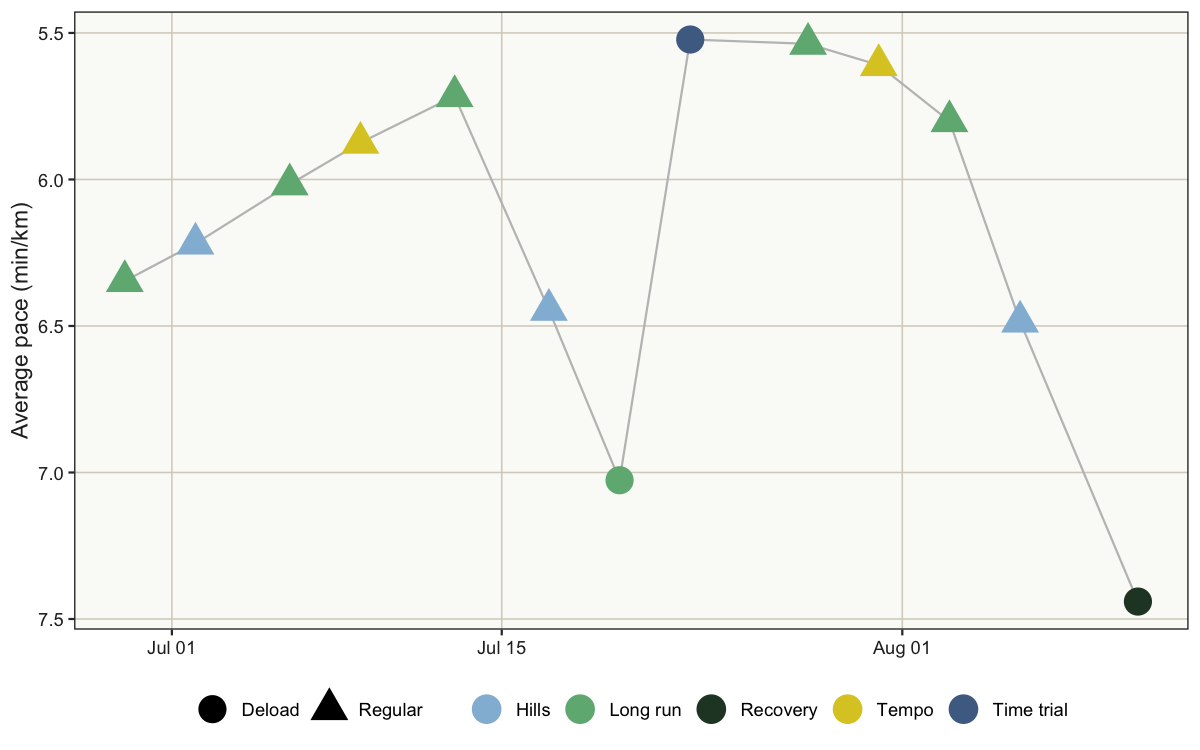
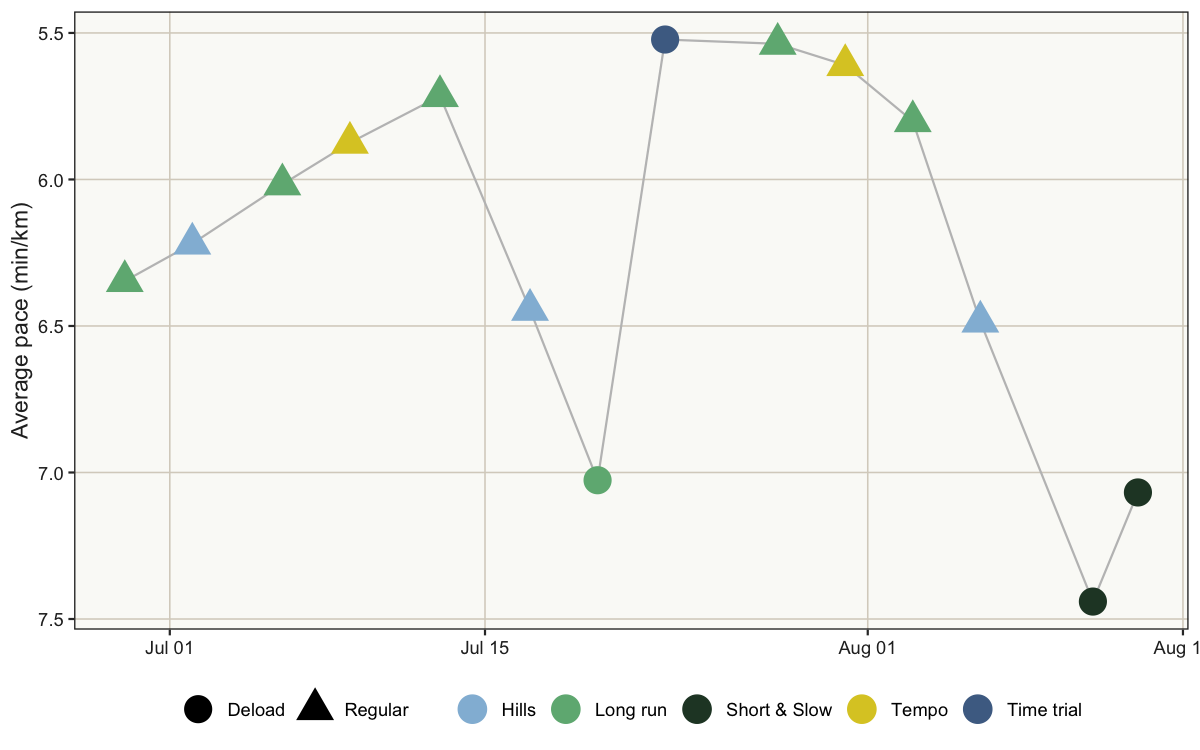
Revised chapter 6

diff --git a/_posts/0001-01-06-running-finding-right-variable.md b/_posts/0001-01-06-running-finding-right-variable.md
@@ -45,44 +45,53 @@ github:
 </div>
 
 After weeks of teasing, this is finally it: we are about to start
-analysing the data.
+analysing some of the data.
 
 And no, I did not add five preliminary chapters just to keep you
 waiting. Real data projects often take time before the first graph
 appears. We needed to find the data, understand how they were stored,
-bring them into R, and build a reproducible workspace.
+bring them into R, and build a reproducible workspace. We now have solid
+foundations.
 
-We now have solid foundations. And hundreds of variables waiting for us.
-
-That sounds like plenty. But having lots of variables does not mean
-having the right one. The database contains what Garmin was designed to
-record, not necessarily what I need to answer my question.
+Let’s go!
 
 # A question I wasn’t planning to ask
+
+As I wrote in the preamble to this notebook, data analysis is rarely a
+straight line. Every anaysis takes some detours. This chapter documents
+one of these.
 
 I originally expected this first exploration to be about progress. Am I
 running faster? Is my fitness improving?
 
-But another question has become more pressing. Over the past week, I
-have felt increasingly tired. I am still reaching the targets set by the
-programme, but my energy on the days that follow sessions is lower than
-I would expect. And yet, I don’t think my pace targets have increased
-significantly.
+By then, another question had become more pressing. Over the previous
+week, I had felt increasingly tired. I was still reaching the targets
+set by the programme, but my energy on the days following each session
+was lower than expected. And yet, I did not think my pace targets had
+increased significantly.
 
-So my first question for the data is not whether I am becoming faster.
-It is: **Have I been doing too much, too quickly?**
+So my first question for the data became: **After my long break from
+running, had I been doing too much, too quickly?**
 
-> Sleep, nutrition, and work have been fairly constant. I therefore
-> start by looking at the training, while keeping in mind that it may
-> not be the only explanation.
+> Sleep, nutrition, and work had been fairly constant. I therefore
+> started by looking at the training, while keeping in mind that it
+> might not be the only explanation.
 
-The question is simple enough. Translating it into data is harder. Which
+The question was simple. But translating it into data was harder. Which
 variable represents *doing too much*? Pace? Effort? Distance? Something
 else?
 
+Dozens of variables were waiting in the `activities` table alone, which
+sounded like plenty. But having lots of variables does not mean having
+the right one. The database contains what Garmin was designed to record,
+not necessarily what I needed to answer my question.
+
 This is where exploratory data analysis (“EDA”) begins. Rather than
 plotting every available column and hoping for a pattern, we need to
-find a variable that actually addresses the question.
+find -or engineer- a variable that actually addresses the question.
+
+Answering it required more than a surface understanding of both the data
+and the problem.
 
 # A reproducible start
 
@@ -149,12 +158,13 @@ runs <-
         collect()
 ```
 
-At the time of writing, I have completed 13 runs. Each data point has
-been hard-earned, but these observations are still very few. I won’t be
-proving anything today. Fortunately, I only need enough information to
-make a small, reversible decision about next week’s training.
+At the time of writing, I have completed 14 runs. Each data point has
+been hard-earned, but these observations are still very few. It is too
+early, for instance, to make credible performance predictions. This
+investigation only asked whether *something obvious had changed in
+recent weeks*.
 
-# Hundreds of variables, but not the right ones
+# Dozens of variables, but not the right ones
 
 Garmin knows when I ran, how far I went, how fast my heart was beating,
 and much more. But it does not know how those runs fit into my training
@@ -165,8 +175,8 @@ usually one longer run and one more intense session, such as tempo
 intervals or hill repeats. Some weeks are deliberately lighter to favour
 recovery (“deload” weeks).
 
-I therefore need to create a few variables before the data can begin to
-answer my question:
+Before analysing them, I needed to create a few variables that related
+the runs to my question:
 
 - `date` extracts the calendar date from Garmin’s timestamp;
 - `training_week` places each run within the programme;
@@ -189,7 +199,7 @@ runs <-
                 str_detect(name, "Hills")      ~ "Hills",
                 str_detect(name, "Tempo")      ~ "Tempo",
                 str_detect(name, "Long Run")   ~ "Long run",
-                TRUE                           ~ "Recovery"
+                TRUE                           ~ "Short & Slow"
             ),
             deload = if_else(
                 training_week %in% c(4, 7),
@@ -210,7 +220,7 @@ runs |>
     )
 ```
 
-    ## # A tibble: 13 × 7
+    ## # A tibble: 14 × 7
     ##    run_id date       training_week session_type deload  distance avg_pace
     ##     <int> <date>             <dbl> <chr>        <chr>      <dbl>    <dbl>
     ##  1      1 2026-06-29             1 Long run     Regular     7.52     6.35
@@ -225,7 +235,8 @@ runs |>
     ## 10     10 2026-07-31             5 Tempo        Regular     6.63     5.61
     ## 11     11 2026-08-03             6 Long run     Regular    11.0      5.80
     ## 12     12 2026-08-06             6 Hills        Regular     9.35     6.49
-    ## 13     13 2026-08-11             7 Recovery     Deload      6.49     7.44
+    ## 13     13 2026-08-11             7 Short & Slow Deload      6.49     7.44
+    ## 14     14 2026-08-13             7 Short & Slow Deload      4.01     7.07
 
 This is `feature engineering` in its simplest form: translating my
 knowledge of the project into variables the computer can use. Some
@@ -233,15 +244,15 @@ variables add context that Garmin does not have, while others transform
 existing measurements into more useful units, such as pace instead of
 speed.
 
-Feature engineering is not merely cleaning before the analysis begins.
-It determines which questions the data can answer.
+Feature engineering can be part of preparing data for analysis. More
+importantly here, it determines which questions the data can answer.
 
 > Do not let the available columns dictate your questions. If the
-> variable you need is missing, build it.
+> variable you need is missing, take time to build it.
 
 # First candidate: average pace
 
-My first candidate is average pace. If the recent sessions were too
+My first candidate was average pace. If the recent sessions had been too
 demanding, perhaps I had simply been running too fast for my current
 level.
 
@@ -263,36 +274,40 @@ runs |>
 
 <figure>
 <img src="/images/notebooks/running/average-pace-over-time-1.png"
-alt="Average pace across the first weeks of the programme. Lower values represent faster runs." />
+alt="Average pace across the first weeks of the programme. Lower values (top) represent faster runs." />
 <figcaption aria-hidden="true">Average pace across the first weeks of
-the programme. Lower values represent faster runs.</figcaption>
+the programme. Lower values (top) represent faster runs.</figcaption>
 </figure>
 
 Pace improved quickly during the opening weeks before settling somewhere
 around 5’30 to 5’50 per kilometre.
 
-Four apparently slow runs stand out. Two were hill sessions, which
+Five apparently slow runs stand out. Two were hill sessions, which
 included hard uphill repetitions followed by walking recovery. Their
 average pace makes them look easy when they were anything but. The other
-two are runs from recovery weeks, which are meant to be slow.
+three came from recovery weeks and were meant to be slow. In particular,
+the final two were part of my response to the accumulated fatigue: an
+easy week with two short, slow runs.
 
-> An unusual observation is not necessarily an error. Understand where
+> An unusual observation is not necessarily an error. An outlier may be
+> a data problem, or it may be a genuine observation. Understand where
 > it comes from before deciding what to do with it.
 
-This is useful, although it is not the answer I was looking for. There
-is no recent increase in average pace. If anything, I have slowed down
-slightly. That makes average pace a poor explanation for the fatigue.
+This was useful, although it was not the answer I was looking for. Once
+I set the deload runs aside, there was no recent increase in average
+pace. If anything, I had slowed down slightly. Average pace was
+therefore a poor explanation for my fatigue.
 
 But average pace is also an imperfect representation of a run. The same
 average can describe a steady effort, intervals, or short sprints
-separated by walking. Before discarding pace entirely, I want to see
-what the average is hiding.
+separated by walking. Before discarding pace entirely, I wanted to see
+what the average was hiding.
 
 ## Is the average the right summary?
 
-So far, I have used the `activities` table, which contains one summary
-for each recorded activity. Another table, `activity_records`, contains
-the measurements used to create those summaries.
+Up to that point, I had used the `activities` table, which contains one
+summary for each recorded activity. Another table, `activity_records`,
+contains the measurements used to create those summaries.
 
 This table cannot be filtered by `sport == "running"` as before because
 that column is not included there, but `activity_id` connects it to my
@@ -312,9 +327,9 @@ runs_detailed <-
         arrange(date, record)
 ```
 
-Each row now represents one measurement recorded during a run. I removed
-records where speed equals zero because pace is undefined when there is
-no movement.
+Each row now represents one measurement recorded during a run of my
+programme. I removed records where speed equals zero because pace is
+undefined when there is no movement.
 
 ``` r
 runs_detailed |>
@@ -364,18 +379,19 @@ narrow distribution, while hill sessions contain several distinct paces:
 short uphill efforts, recovery running, and some walking.
 
 The graph explains why average pace can misrepresent some sessions. But
-it does not explain why I am tired. Lesson learned: I do not need *more
-data*; I need a *better variable* for the question.
+it did not explain why I had been feeling more tired. This detour gave
+me a useful lesson: I did not need *more data*; I needed a *better
+variable* for the question.
 
 # Second candidate: Garmin’s effort metrics
 
-If pace cannot represent how demanding these sessions were, perhaps
-Garmin’s ready-made effort metrics can.
+If pace could not represent how demanding these sessions were, perhaps
+Garmin’s ready-made effort metrics could.
 
 These are engineered variables too. Garmin combines raw measurements
 into convenient scores according to its own definition of effort. That
-can be useful, but a variable does not become relevant to my question
-simply because it is already available.
+can be useful, but a variable does not necessarily become relevant to my
+question simply because it is already available.
 
 `training_load` estimates the physiological load created by each
 activity. Here, the slow hill sessions no longer look easy. They sit
@@ -440,19 +456,22 @@ several demanding sessions, but no sudden break from one week to the
 next.</figcaption>
 </figure>
 
-These variables are closer to the idea of effort, but there is no clear
-change. Week 3 was demanding too, and I handled it without unusual
-fatigue.
+These variables were closer to the idea of effort, but neither showed a
+clear change. Week 3 had been demanding too, and I had handled it
+without unusual fatigue.
 
-Fatigue, however, can accumulate across several sessions. Perhaps I do
-not need another variable from the database. Perhaps I need to engineer
-one at the level of the training week.
+This second route did not provide an answer either. It did, however,
+expose another problem: both metrics still described one run at a time.
 
-# Engineering the variable I need
+Fatigue, however, can accumulate across several sessions. Perhaps I
+didn’t need another variable from the database. Perhaps I needed to
+engineer one at the level of the training week.
 
-To represent accumulated training, I summarise the runs by week. This
-changes the unit of observation: instead of one row per run, I want one
-row per training week.
+# Engineering the variable I needed
+
+To represent accumulated training, I summarised the runs by week. This
+changed the unit of observation: instead of one row per run, I now had
+one row per training week.
 
 ``` r
 weekly_runs <-
@@ -484,13 +503,13 @@ weekly_runs |>
     ## # A tibble: 7 × 5
     ##   training_week total_training_load avg_training_effect total_distance
     ##           <dbl>               <dbl>               <dbl>          <dbl>
-    ## 1             1               259.                 3.6           13.9 
-    ## 2             2               238.                 3.7           13.2 
-    ## 3             3               306.                 3.85          16.7 
-    ## 4             4               149.                 3.05          11.6 
-    ## 5             5               265.                 3.85          16.7 
-    ## 6             6               278.                 3.85          20.4 
-    ## 7             7                86.8                3              6.49
+    ## 1             1                259.                3.6            13.9
+    ## 2             2                238.                3.7            13.2
+    ## 3             3                306.                3.85           16.7
+    ## 4             4                149.                3.05           11.6
+    ## 5             5                265.                3.85           16.7
+    ## 6             6                278.                3.85           20.4
+    ## 7             7                121.                2.65           10.5
     ## # ℹ 1 more variable: distance_change <dbl>
 
 The `summarise()` step creates several weekly variables from the
@@ -525,39 +544,41 @@ alt="Total distance across completed training weeks. Weeks 4 and 7 were recovery
 weeks. Weeks 4 and 7 were recovery weeks.</figcaption>
 </figure>
 
-Now we are onto something.
+This was the first pattern that addressed my question directly.
 
-We already saw that the pace had not changed much, but the amount of
-running at that pace had. One session was an 11-kilometre long run; the
+Pace had not changed much, but the amount of running at that pace had.
+Week 6 had been hard. One session was an 11-kilometre long run; the
 other was a demanding hill workout covering more than 9 kilometres,
-including twelve one-minute uphill efforts. Individually, neither looked
-absurd. Together, they formed the largest week of the programme so far.
+including twelve one-minute high-intensity uphill efforts. Individually,
+neither looked absurd. Together, they formed the largest week of the
+programme so far.
 
 Week 6 was my first week above 20 kilometres. That is 22% more than week
 5, immediately after a 44% increase following the deload week.
 
-Weekly distance is the variable I had been looking for. It does not
-measure fatigue directly, but it captures the recent increase in
+Weekly distance was the variable I had been looking for. It did not
+measure fatigue directly, but it captured the recent increase in
 training volume far better than any individual run could.
 
-That gives me a plausible explanation for the fatigue I experienced over
+That gave me a plausible explanation for the fatigue I experienced over
 the following days: my recent training volume may have increased faster
 than I could recover from it.
 
 # Enough information for a small decision
 
-13 runs cannot establish that the increase in distance *caused* my
-fatigue. But that is not quite the decision I need to make.
+14 runs were not enough to establish that the increase in distance
+*caused* my fatigue. But that was not quite the decision I needed to
+make.
 
-I feel tired, and the data show a sharp increase in running volume.
-Reducing that volume for a week is a small, reversible response. I can
-then see whether I feel better.
+I felt tired, and the data showed a sharp increase in running volume.
+That was enough evidence for the decision at hand. I asked my running
+app to reduce the weekly mileage and turned week 7 into a recovery week.
+Regular training would resume in week 8.
 
-That is enough evidence for the decision at hand. I asked my running app
-to reduce the mileage and turned week 7 into a recovery week. Regular
-training will resume in week 8, hopefully with fresher legs.
+I am writing these lines at the dawn of week 8. I will soon find out
+whether I can restart the programme as originally intended.
 
-# What’s next
+# Take-home message
 
 The Garmin database contained hundreds of variables, yet the most useful
 one was not among them. I had to combine distance, dates, and my
@@ -571,6 +592,8 @@ The running data are only an example. Every dataset reflects the system
 that collected it, while our questions come from the problem we are
 trying to solve. The two will not always align. Good EDA helps us
 recognise that gap and decide what information is missing.
+
+# What’s next
 
 This exploration also exposed the next problem. Average pace cannot
 meaningfully compare a long run, a tempo session, and hill repeats. All
